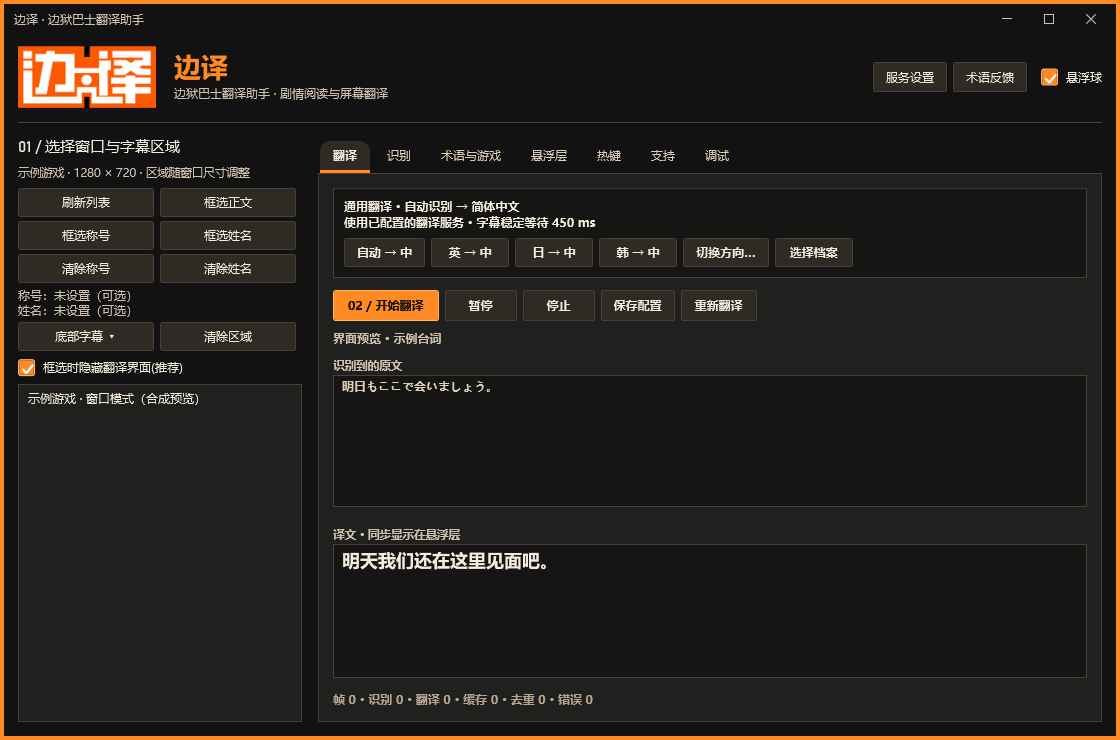
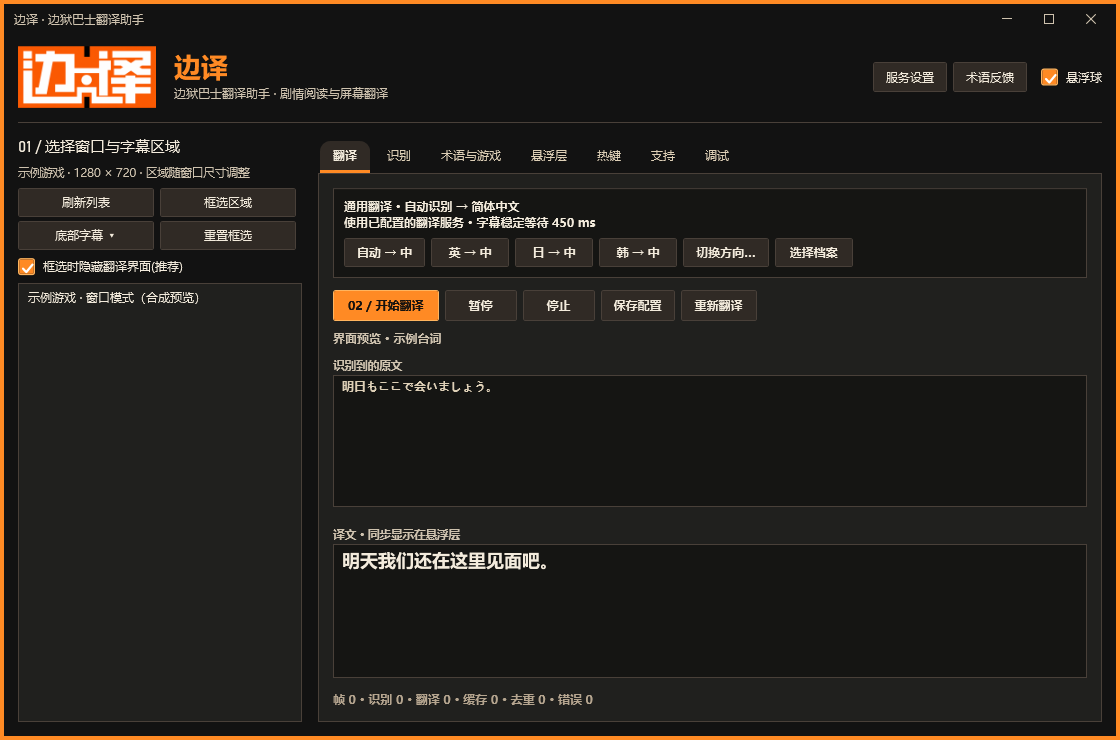
Refresh 1.7.1 interface screenshots and release verification record

Changed region(s): [[0.0, 0.3108, 0.2812, 0.5595], [0.1875, 0.4351, 0.25, 0.4662], [0.1875, 0.2486, 0.2188, 0.2797]]

diff --git a/docs/VERIFICATION.md b/docs/VERIFICATION.md
@@ -3,8 +3,9 @@
 ## 边译 1.7.1（2026-10-14）
 
 - Release 解决方案编译通过，0 警告、0 错误。修改涉及选区重置、默认布局解析及角色首行排版，已有排版断言同步调整。
+- 发布源码提交 `2ddea7b25922846662a1c6ab340e289c042ed80a` 的现有 [GitHub CI 已通过](https://github.com/wl8695573-blip/BianYi/actions/runs/38511057101)，包含回归、OCR、WPF 渲染与交互检查。仓库主界面和快捷导航截图已使用该次 CI 的实际 WPF 渲染结果更新。
 - 本次不重新执行本机回归、界面交互、真实游戏或付费翻译 API 测试。GitHub 推送会触发现有 CI，发布说明附对应提交的检查链接与当次包核对记录。
-- 发布时核对安装器、便携包、兼容文件名入口与 SHA256，并确认包内版本和源码提交一致。下方 1.7.0 的游戏、OCR 与在线结果属于历史记录，不能作为本次新交互的实测结论。
+- 已核对安装器、便携包、兼容文件名入口与 SHA256，包内版本和源码提交一致。本机便携目录已同步更新，并核对 13 个配置、模型和术语文件保持原样。下方 1.7.0 的游戏、OCR 与在线结果属于历史记录，不能作为本次新交互的实测结论。
 - 自动人物区域使用边狱巴士默认剧情布局的客户区比例；非标准布局、特殊宽高比和不同剧情界面尚需实际游戏验证。
 
 ## 边译 1.7.0（2026-10-13）

diff --git a/README.md b/README.md
@@ -10,7 +10,7 @@
 
 ![主界面](assets/screenshot-main.png)
 
-截图来自实际 WPF 界面，窗口与台词为合成示例。主界面与悬浮球菜单共用深色、橙色配色。
+截图来自 1.7.1 的实际 WPF 界面，窗口与台词为合成示例。主界面与悬浮球菜单共用深色、橙色配色。
 
 <img src="assets/screenshot-navigation.png" alt="悬浮球快捷导航" width="288" />
 
